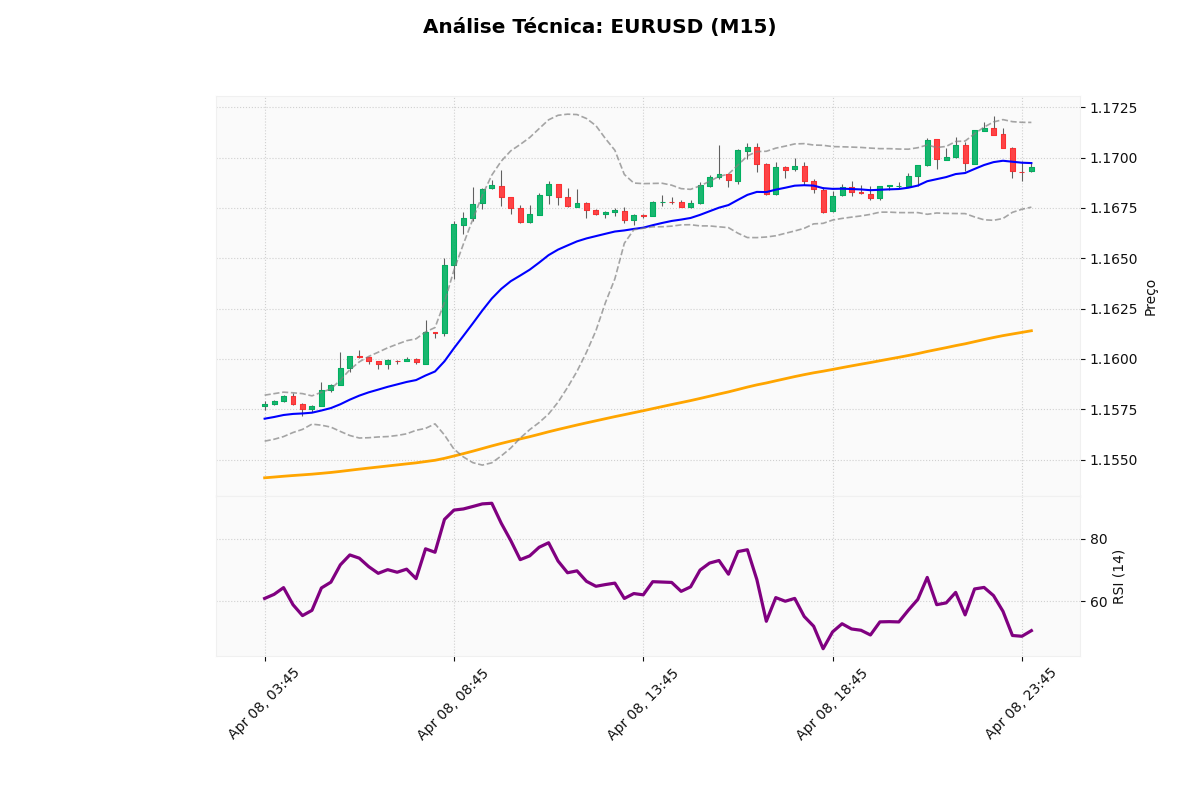
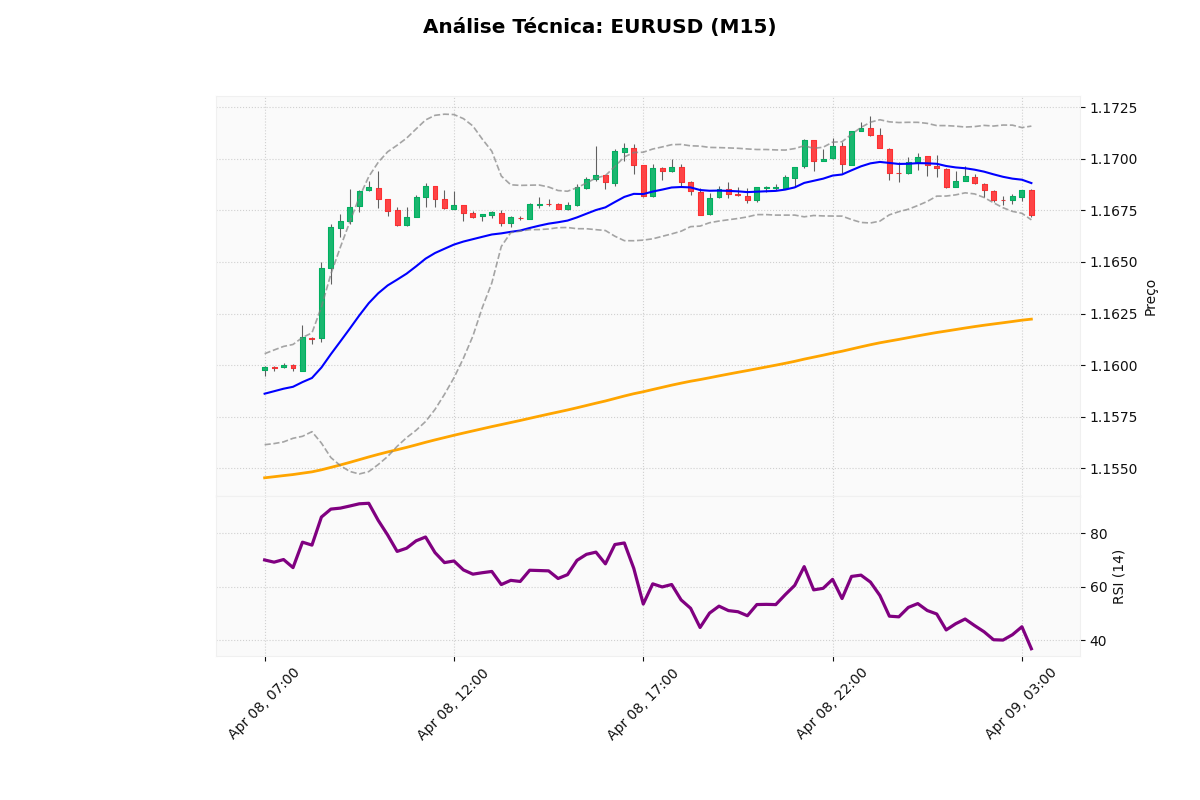
Conclusão da Fase de Confluência: Integração total do FundamentalAnalyzer com dados reais (ForexFactory), refinamento do radar e validação ponta-a-ponta

diff --git a/analysis/fundamental.py b/analysis/fundamental.py
@@ -1,73 +1,225 @@
 import requests
 import pandas as pd
 from datetime import datetime, timedelta, timezone
+from shared.logger import logger
+
+
+# ─────────────────────────────────────────────────────────────
+# Mapa de países → código de moeda (ForexFactory usa país/ISO)
+# ─────────────────────────────────────────────────────────────
+_COUNTRY_TO_CURRENCY = {
+    "USD": "USD", "usd": "USD",
+    "EUR": "EUR", "eur": "EUR",
+    "GBP": "GBP", "gbp": "GBP",
+    "JPY": "JPY", "jpy": "JPY",
+    "AUD": "AUD", "aud": "AUD",
+    "CAD": "CAD", "cad": "CAD",
+    "CHF": "CHF", "chf": "CHF",
+    "NZD": "NZD", "nzd": "NZD",
+    "CNY": "CNY", "cny": "CNY",
+    # ForexFactory usa o proprio codigo ISO
+}
+
+_HIGH_IMPACT_KEYWORDS = {
+    "High", "HIGH", "high"
+}
+
 
 class FundamentalAnalyzer:
     """
     Rastreador de Eventos Econômicos de Alto Impacto.
-    Por enquanto, usa uma abordagem simplificada (simulação de eventos ou API gratuita se disponível).
-    """
-    def __init__(self):
-        # Em uma versão real, usaríamos scrapers ou APIs pagas (FinancialModelingPrep, EODHistoricalData)
-        # Para este MVP, vamos simular a estrutura que o bot consumirá.
-        self.eventos = []
 
-    def obter_proximos_eventos(self) -> list:
+    Fonte: ForexFactory JSON calendar (gratuito, sem API key, atualizado semanalmente).
+    URL  : https://nfs.faireconomy.media/ff_calendar_thisweek.json
+
+    Cache em memória para evitar requisições repetidas durante o mesmo ciclo
+    do bot (cache expira a cada 60 minutos).
+
+    Métodos públicos:
+      - obter_proximos_eventos() → list[dict]
+      - minutos_ate_proximo_evento(par) → int
+      - verificar_alerta_proximo(par) → str
+      - listar_eventos_do_dia(par) → str  (novo: para uso no relatório completo)
+    """
+
+    _FF_URL_WEEK  = "https://nfs.faireconomy.media/ff_calendar_thisweek.json"
+    _FF_URL_NEXT  = "https://nfs.faireconomy.media/ff_calendar_nextweek.json"
+    _CACHE_TTL_MIN = 60  # Renova cache a cada 60 minutos
+
+    def __init__(self):
+        self._cache: list = []
+        self._cache_ts: datetime | None = None
+
+    # ─────────────────────────────────────────────────────────
+    # Camada de dados (com cache)
+    # ─────────────────────────────────────────────────────────
+    def _carregar_calendario(self) -> list:
         """
-        Retorna lista de eventos nas próximas 24 horas.
-        Simulado para demonstração da Fase 2.
+        Busca o calendário da semana atual no ForexFactory.
+        Usa cache em memória para não sobrecarregar a API.
         """
         agora = datetime.now(timezone.utc)
-        
-        # Simulação de eventos reais de hoje (06 de Abril)
-        eventos_ficticios = [
-            {
-                "time": (agora + timedelta(minutes=45)).strftime("%H:%M"),
-                "currency": "USD",
-                "event": "FOMC Meeting Minutes",
-                "impact": "HIGH",
-                "minutes_to": 45
-            },
-            {
-                "time": (agora + timedelta(hours=2)).strftime("%H:%M"),
-                "currency": "GBP",
-                "event": "BoE Gov Bailey Speaks",
-                "impact": "HIGH",
-                "minutes_to": 120
-            }
-        ]
-        return eventos_ficticios
+
+        # Verifica se o cache ainda é válido
+        if (
+            self._cache
+            and self._cache_ts
+            and (agora - self._cache_ts).total_seconds() < self._CACHE_TTL_MIN * 60
+        ):
+            return self._cache
+
+        eventos = []
+        for url in [self._FF_URL_WEEK, self._FF_URL_NEXT]:
+            try:
+                resp = requests.get(url, timeout=8,
+                                    headers={"User-Agent": "Mozilla/5.0"})
+                resp.raise_for_status()
+                dados = resp.json()
+                eventos.extend(dados)
+                logger.info(f"FundamentalAnalyzer: {len(dados)} eventos carregados de {url}")
+            except Exception as e:
+                logger.warning(f"FundamentalAnalyzer: falha ao carregar {url} → {e}")
+
+        self._cache    = eventos
+        self._cache_ts = agora
+        return eventos
+
+    def _parse_eventos(self) -> list[dict]:
+        """
+        Parseia os eventos brutos do ForexFactory para o formato interno:
+          {currency, title, impact, datetime_utc, minutes_to}
+
+        Filtra apenas eventos de HOJE e AMANHÃ para reduzir ruído.
+        """
+        agora  = datetime.now(timezone.utc)
+        limite = agora + timedelta(hours=24)
+
+        raw    = self._carregar_calendario()
+        parsed = []
+
+        for ev in raw:
+            try:
+                # Parse da data com timezone (formato ISO 8601)
+                dt_str = ev.get("date", "")
+                if not dt_str:
+                    continue
+                dt = datetime.fromisoformat(dt_str).astimezone(timezone.utc)
+
+                # Só importa eventos futuros nas próximas 24h
+                if dt < agora or dt > limite:
+                    continue
+
+                impact   = ev.get("impact", "")
+                country  = ev.get("country", "")
+                currency = _COUNTRY_TO_CURRENCY.get(country, country.upper()[:3])
+                title    = ev.get("title", "N/A")
+                mins_to  = int((dt - agora).total_seconds() / 60)
+
+                parsed.append({
+                    "currency":     currency,
+                    "event":        title,
+                    "impact":       impact,
+                    "datetime_utc": dt,
+                    "minutes_to":   mins_to,
+                    "time_str":     dt.strftime("%H:%M UTC"),
+                })
+            except Exception as e:
+                logger.debug(f"FundamentalAnalyzer: erro ao parsear evento: {e} | {ev}")
+
+        # Ordena por hora do evento
+        parsed.sort(key=lambda x: x["minutes_to"])
+        return parsed
+
+    # ─────────────────────────────────────────────────────────
+    # API Pública
+    # ─────────────────────────────────────────────────────────
+    def obter_proximos_eventos(self) -> list:
+        """
+        Retorna lista de eventos de alto impacto nas próximas 24 horas.
+        Fallback para lista vazia se a API estiver indisponível.
+        """
+        try:
+            todos = self._parse_eventos()
+            return [e for e in todos if e["impact"] in _HIGH_IMPACT_KEYWORDS]
+        except Exception as e:
+            logger.error(f"FundamentalAnalyzer.obter_proximos_eventos falhou: {e}")
+            return []
 
     def minutos_ate_proximo_evento(self, par: str) -> int:
         """
         Retorna o mínimo de minutos até o próximo evento de alto impacto
-        para as moedas do par. Usado pelo PercentualIndicator (componente 'news').
-        Retorna 1000 quando não há eventos relevantes na janela.
+        para as moedas do par.
+        Retorna 1000 quando não há eventos relevantes na janela de 24h.
         """
-        moeda1 = par[:3]
-        moeda2 = par[3:6]
+        moeda1 = par[:3].upper()
+        moeda2 = par[3:6].upper()
         eventos = self.obter_proximos_eventos()
         mins_list = [
             ev["minutes_to"] for ev in eventos
-            if ev["currency"] in [moeda1, moeda2] and ev["impact"] == "HIGH"
+            if ev["currency"] in (moeda1, moeda2)
         ]
         return int(min(mins_list)) if mins_list else 1000
 
     def verificar_alerta_proximo(self, par: str) -> str:
-        """Verifica se há notícia de alto impacto para as moedas do par nos próximos 30-60 min."""
-        moeda1 = par[:3]
-        moeda2 = par[3:6]
-        
+        """
+        Verifica se há notícia de alto impacto nas próximas 2 horas para o par.
+        Retorna string formatada para exibição no radar e no relatório.
+        """
+        moeda1 = par[:3].upper()
+        moeda2 = par[3:6].upper()
         eventos = self.obter_proximos_eventos()
         alertas = []
-        
-        for ev in eventos:
-            if ev["currency"] in [moeda1, moeda2] and ev["impact"] == "HIGH":
-                if ev["minutes_to"] <= 60:
-                    alertas.append(f"⚠ {ev['currency']} - {ev['event']} em {ev['minutes_to']}m!")
-        
-        return " | ".join(alertas) if alertas else "✅ Sem notícias críticas próximas"
 
+        for ev in eventos:
+            if ev["currency"] in (moeda1, moeda2) and ev["minutes_to"] <= 120:
+                urgencia = "🔴" if ev["minutes_to"] <= 15 else "⚠"
+                alertas.append(
+                    f"{urgencia} {ev['currency']} — {ev['event']} às {ev['time_str']} "
+                    f"(em {ev['minutes_to']}min)"
+                )
+
+        return " | ".join(alertas) if alertas else "✅ Sem notícias críticas nas próximas 2h"
+
+    def listar_eventos_do_dia(self, par: str) -> str:
+        """
+        Retorna um painel completo com todos os eventos de alto impacto
+        das próximas 24h para as moedas do par. Usado no relatório completo.
+        """
+        moeda1 = par[:3].upper()
+        moeda2 = par[3:6].upper()
+
+        try:
+            todos   = self._parse_eventos()
+            filtros = [
+                ev for ev in todos
+                if ev["currency"] in (moeda1, moeda2)
+                and ev["impact"] in _HIGH_IMPACT_KEYWORDS
+            ]
+        except Exception:
+            filtros = []
+
+        if not filtros:
+            return "📰 Sem eventos de alto impacto para este par nas próximas 24h."
+
+        linhas = ["📰 CALENDÁRIO ECONÔMICO (Próximas 24h — Alto Impacto)"]
+        linhas.append("-" * 50)
+        for ev in filtros:
+            urgencia = "🔴" if ev["minutes_to"] <= 15 else ("⚠" if ev["minutes_to"] <= 60 else "📅")
+            linhas.append(
+                f"  {urgencia} [{ev['time_str']}] {ev['currency']} — {ev['event']} "
+                f"(em {ev['minutes_to']}min)"
+            )
+        linhas.append("-" * 50)
+        return "\n".join(linhas)
+
+
+# ─────────────────────────────────────────────────────────────
+# Teste isolado
+# ─────────────────────────────────────────────────────────────
 if __name__ == "__main__":
     analista = FundamentalAnalyzer()
+    print("\n--- ALERTA RÁPIDO ---")
     print(analista.verificar_alerta_proximo("EURUSD"))
+    print(f"\nMinutos até próximo evento EUR/USD: {analista.minutos_ate_proximo_evento('EURUSD')}")
+    print("\n--- CALENDÁRIO DO DIA ---")
+    print(analista.listar_eventos_do_dia("EURUSD"))

diff --git a/app/forex_bot.py b/app/forex_bot.py
@@ -167,12 +167,14 @@ class ForexBot:
             # Obtém o contexto de sessão
             contexto = self.obter_contexto_sessao(df_tec, par_alvo)
             
-            # NOVO: Alerta Fundamental
-            alerta_fund = self.analista_fundamental.verificar_alerta_proximo(par_alvo)
-            
+            # Calendário Econômico completo do dia
+            calendario = self.analista_fundamental.listar_eventos_do_dia(par_alvo)
+            alerta_imediato = self.analista_fundamental.verificar_alerta_proximo(par_alvo)
+
             print("-" * 50)
             print(contexto)
-            print(f"📰 Notícias: {alerta_fund}")
+            print(calendario)
+            print(f"🚨 Alerta Imediato: {alerta_imediato}")
             print("-" * 50)
             print(analista.gerar_resumo_atual())
 
